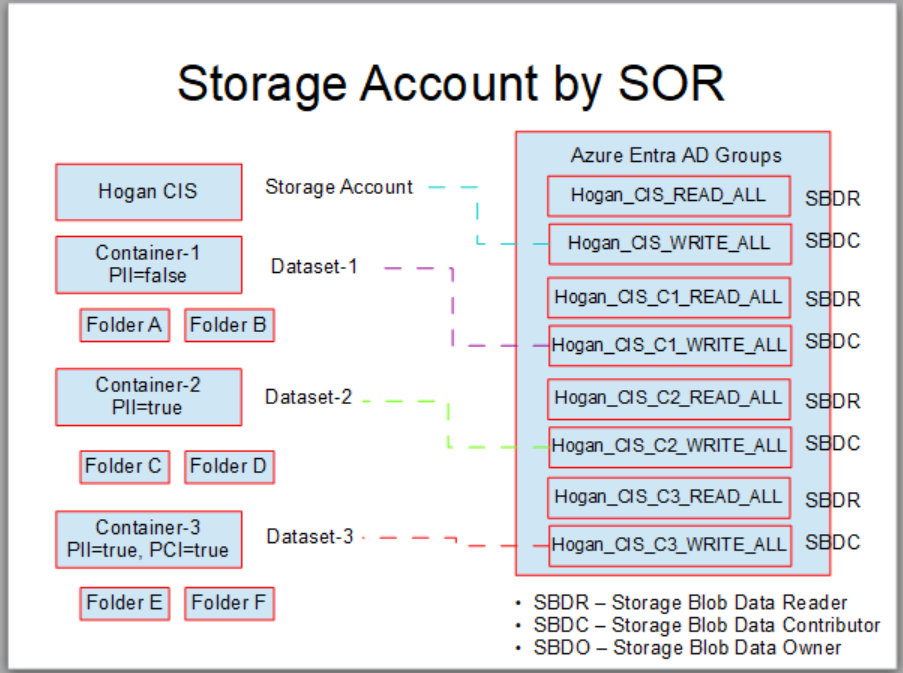
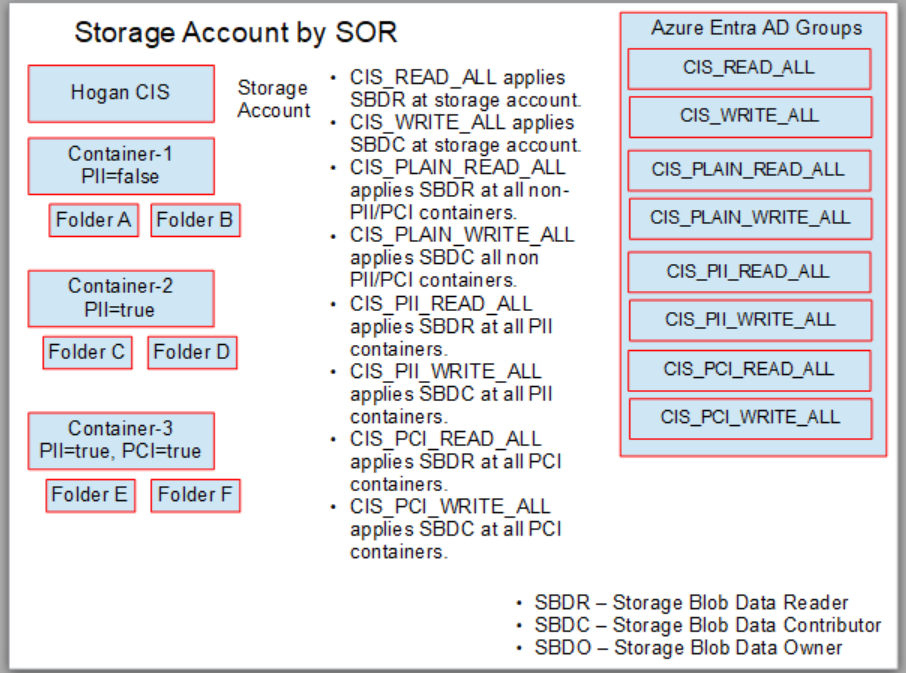
fixed rules

diff --git a/ADLS_Security/ADLS_Security_Ideas.md b/ADLS_Security/ADLS_Security_Ideas.md
@@ -2,7 +2,7 @@
 
 * This page details out various options we can use to organize the data in a data lake and secure it in many ways using Azure's RBAC, ABAC and ACL. 
 
-* The highest grain of access control available for us is the Role based access control (RBAC). We can create custom role names and add different permissions to it. Once that role is created, we can apply that role to the resource we want to control. 
+* The highest grain of access control available for us is the Role based access control (RBAC). There are various in-built roles available in Azure and when we look at the scope of the ADLS permissions, we have two important built-in roles. Storage Blob Data Contributor (Read / Write), Storage Blob Data Reader (Read only access), and Storage blob Data Owner (Read, Write, ACL ops etc.) We can assign this role to a group we define (that represents a group of users), and scope it to the level of either a storage account or a specific container. 
 
 <img src="./images/adls_sec_001.png" />
 
